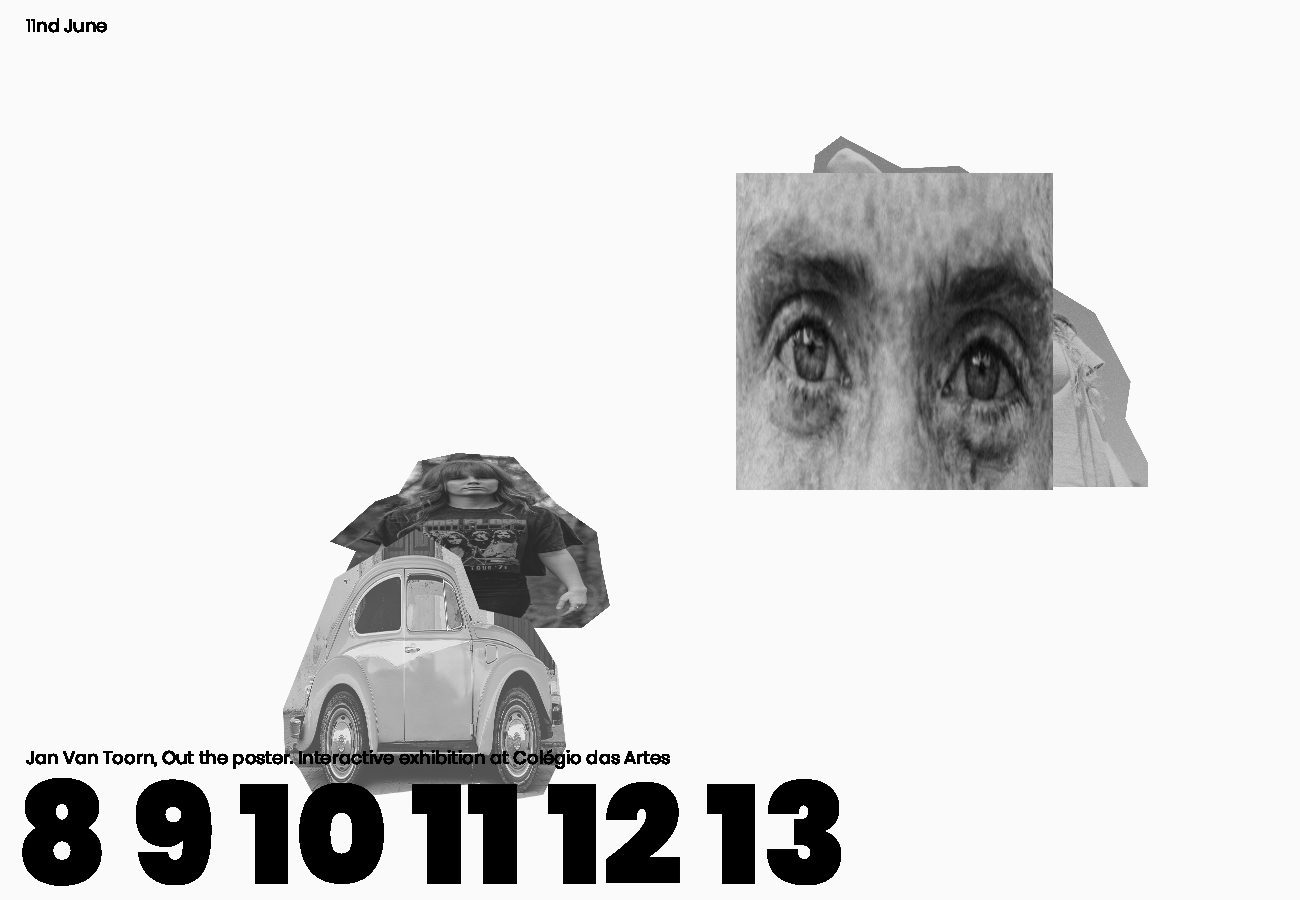
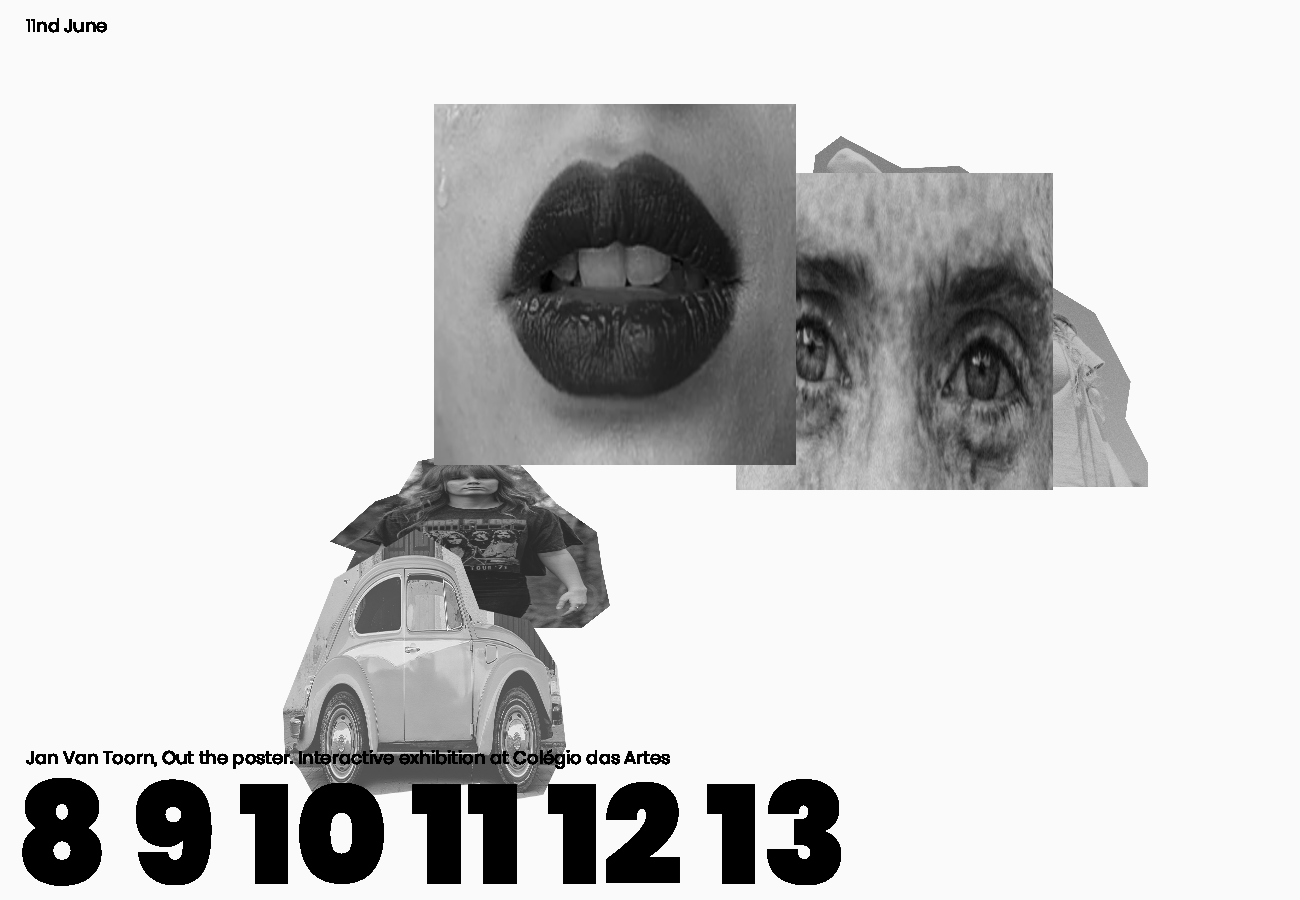
Added new image

Changed region(s): [[0.3077, 0.0933, 0.6154, 0.5289]]

diff --git a/odm_prototype/observer.py b/odm_prototype/observer.py
@@ -19,7 +19,7 @@ class MonitorHandler(PatternMatchingEventHandler):
 
     def on_modified(self, event):
         print("Adding files to git")
-        self.git.add('.')
+        self.git.add('./')
         print("Commiting files to git")
         self.git.commit('-m', 'Added new image')
         print("Pushing files to remote repository")
